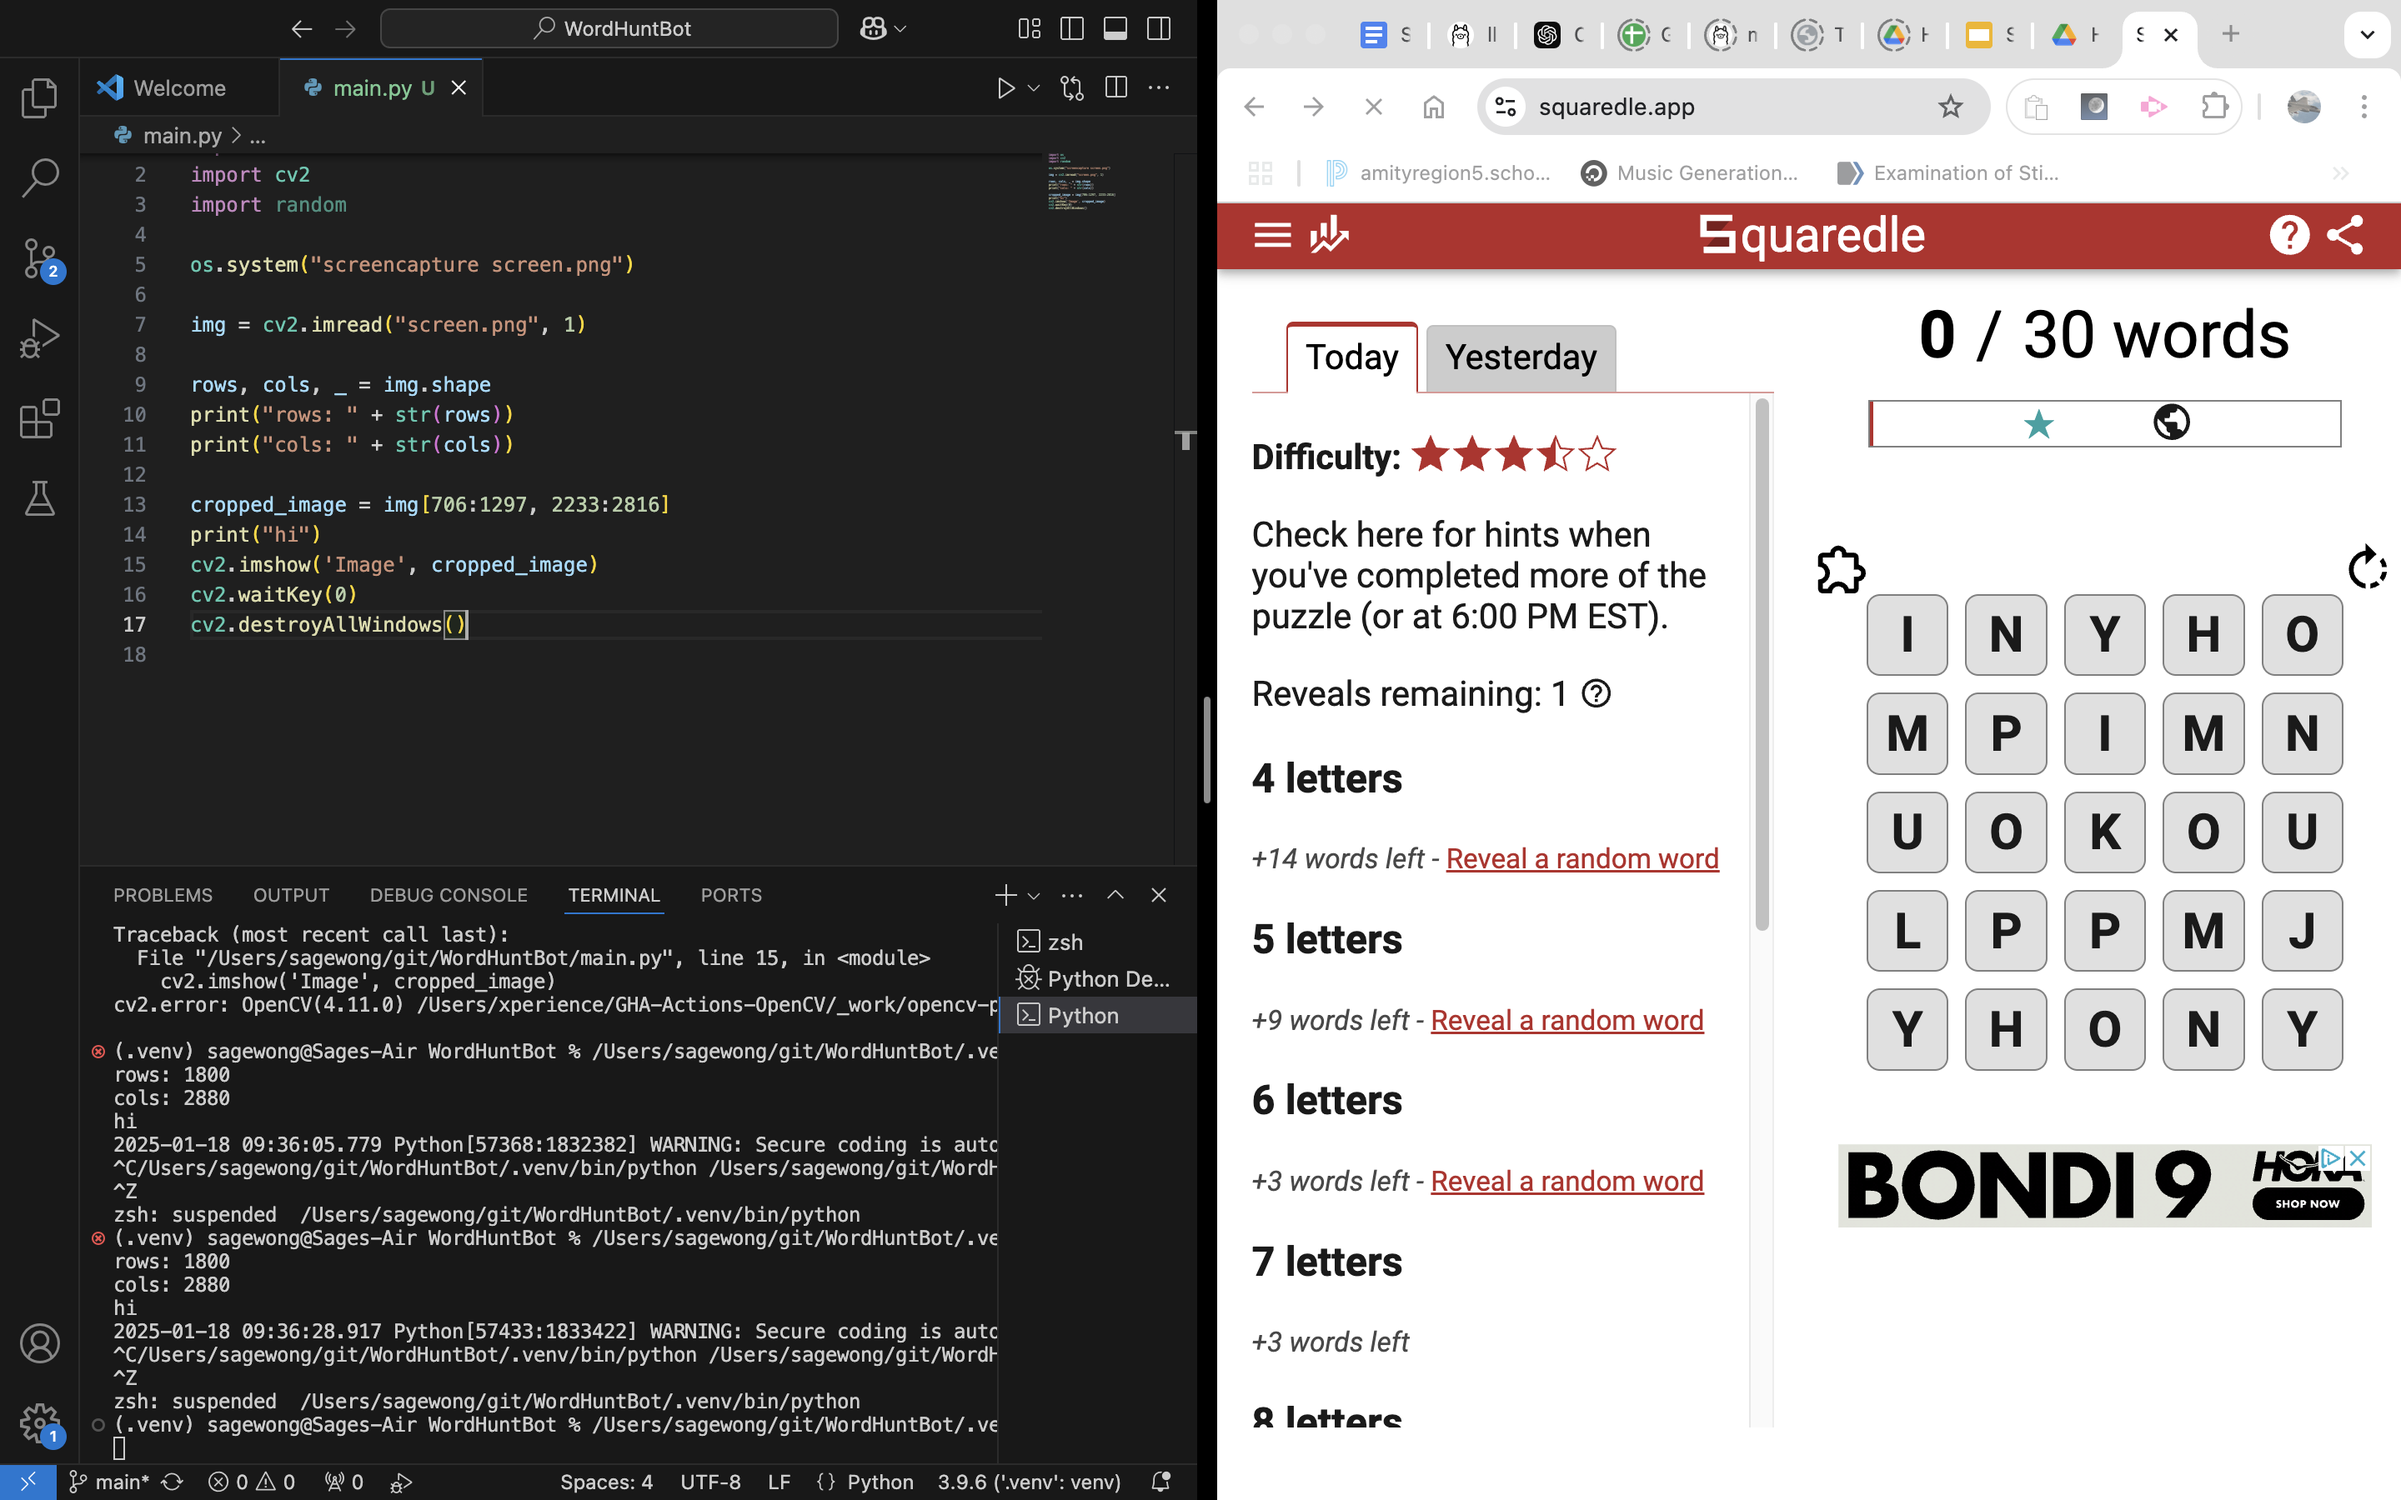
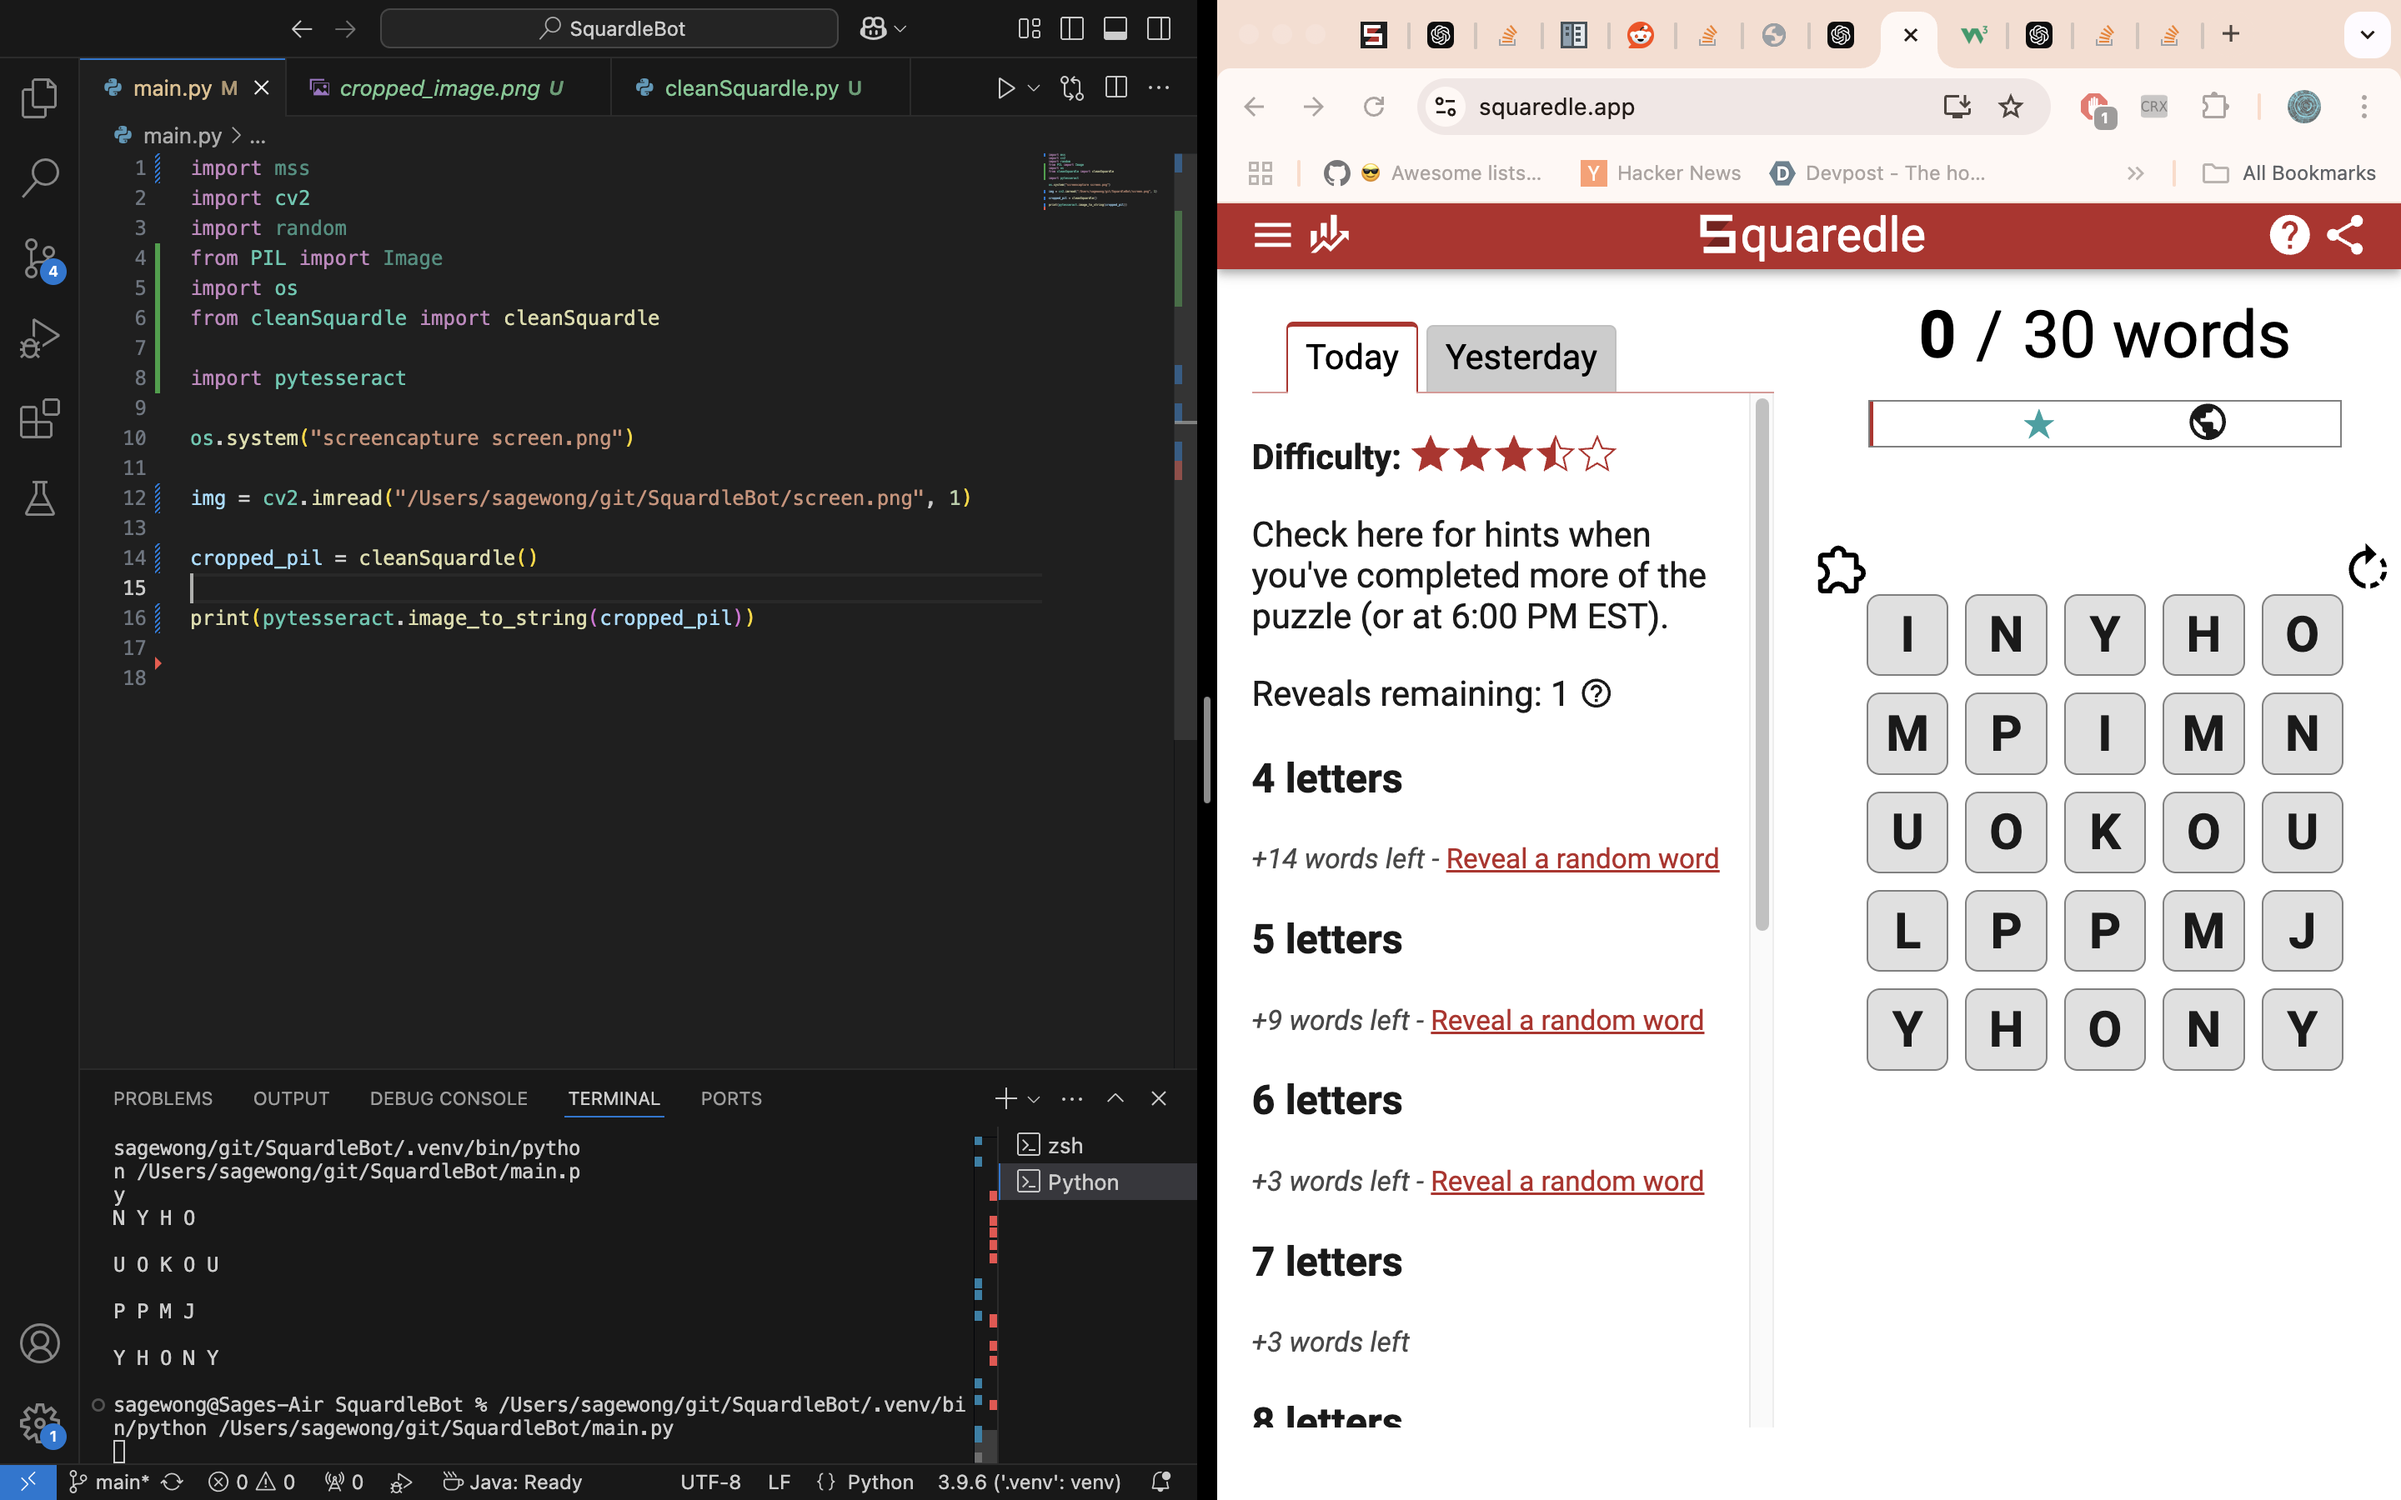
Added an image cleaner. But for some reason the output is still incorrect

diff --git a/main.py b/main.py
@@ -1,17 +1,17 @@
-import os
+import mss
 import cv2
 import random
+from PIL import Image
+import os
+from cleanSquardle import cleanSquardle
+
+import pytesseract
 
 os.system("screencapture screen.png")
 
-img = cv2.imread("screen.png", 1)
+img = cv2.imread("/Users/sagewong/git/SquardleBot/screen.png", 1)
 
-rows, cols, _ = img.shape
-print("rows: " + str(rows))
-print("cols: " + str(cols))
+cropped_pil = cleanSquardle()
 
-cropped_image = img[706:1297, 2233:2816]
+print(pytesseract.image_to_string(cropped_pil))
 
-cv2.imshow('Image', cropped_image)
-cv2.waitKey(0)
-cv2.destroyAllWindows()

diff --git a/cleanSquardle.py b/cleanSquardle.py
@@ -1,0 +1,15 @@
+import cv2
+from PIL import Image
+
+def cleanSquardle():
+    img = cv2.imread("/Users/sagewong/git/SquardleBot/screen.png", 1)
+    cropped_image = img[706:1297, 2233:2816]
+
+    rows, cols, _ = cropped_image.shape
+
+    for i in range(rows):
+        for j in range(cols):
+            if (cropped_image[i, j] != [26, 26, 26]).any():
+                cropped_image[i, j] = [255, 255, 255]
+    cv2.imwrite("cropped_image.png", cropped_image)
+    return Image.fromarray(cv2.cvtColor(cropped_image, cv2.COLOR_BGR2RGB))
